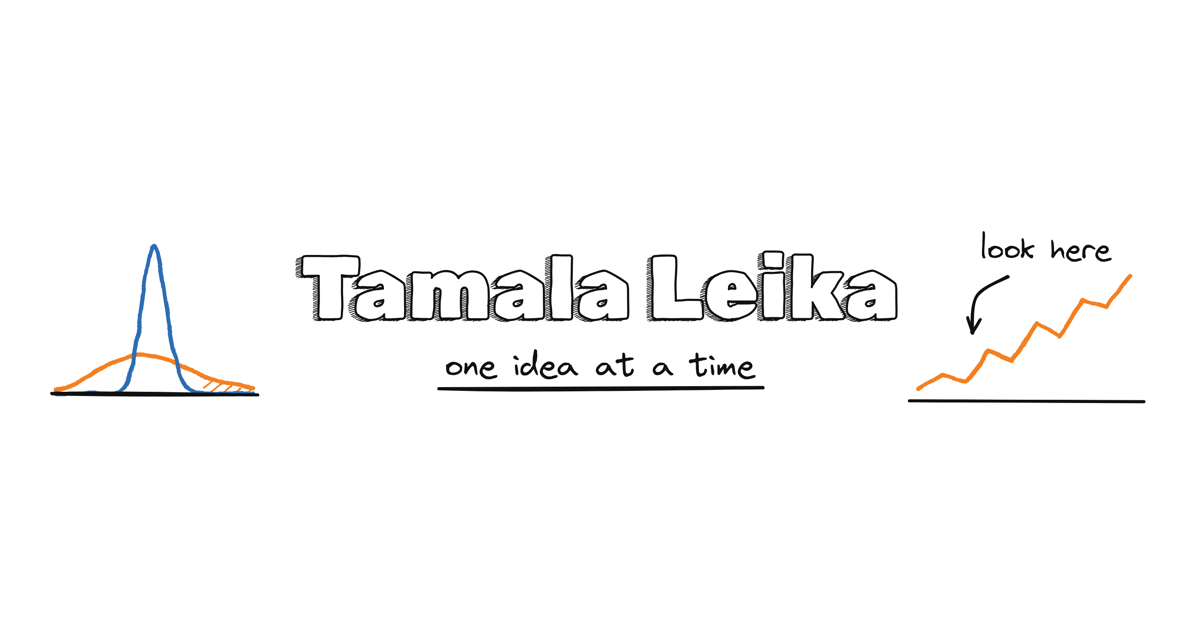
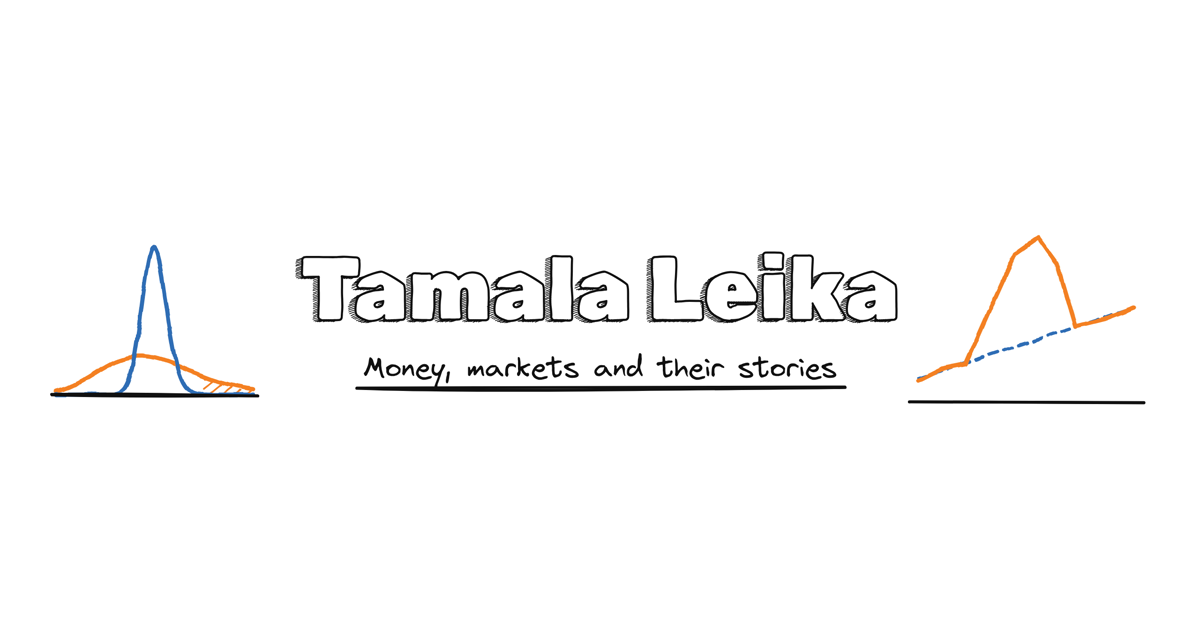
Update site (tamalaleika f67066d)

Changed region(s): [[0.74, 0.3631, 0.9558, 0.6656], [0.3083, 0.5446, 0.7092, 0.6354], [0.0308, 0.6051, 0.2158, 0.6354]]

diff --git a/build.py b/build.py
@@ -311,29 +311,34 @@ def avatar_svg(seed: int = 17) -> str:
 
 
 def hero_svg() -> str:
-    """The home page drawing: a bubble, its crash and the question the channel answers."""
+    """The home page drawing: a stock price bubble shooting far above what the business is worth, then crashing back down to it."""
     ax = wobble([(70, 40), (70, 400), (640, 400)], 3, amp=1.2)
     ticks = "".join(f'<path class="ink thin" d="{wobble([(x, 400), (x, 412)], 10 + i, amp=0.4, step=4)}"/>'
                     for i, x in enumerate(range(150, 640, 90)))
     ticks += "".join(f'<path class="ink thin" d="{wobble([(58, y), (70, y)], 20 + i, amp=0.4, step=4)}"/>'
                      for i, y in enumerate(range(100, 400, 75)))
     random.seed(7)
-    wild, y = [], 330.0
-    shape = [(i, 330 - 230 * math.exp(-((i - 330) / 120) ** 2) - 40 * i / 600) for i in range(80, 420, 12)]
-    for x, base in shape:
-        wild.append((x, base + random.uniform(-9, 9)))
-    for x in range(420, 630, 12):
-        y = 330 - 60 * math.exp(-((x - 330) / 120) ** 2) + 40 - 30 * (x - 420) / 210 + random.uniform(-6, 6)
-        wild.append((x, y))
-    calm = [(x, 300 - 0.22 * (x - 80) + 5 * math.sin(x / 37)) for x in range(80, 631, 30)]
+    # Blue dashed line: what it's actually worth (grows slowly and steadily)
+    calm_fn = lambda x: 340 - 0.14 * (x - 80)
+    calm = [(x, calm_fn(x) + 3 * math.sin(x / 40)) for x in range(80, 631, 30)]
+    # Orange line: price tracks value at first, inflated into a huge bubble, then crashes back down to what it's worth
+    wild = []
+    for x in range(80, 432, 12):
+        bubble = 225 * math.exp(-((x - 335) / 95) ** 2) if x > 140 else 0
+        wild.append((x, calm_fn(x) - bubble + random.uniform(-7, 7)))
+    for x in range(432, 630, 12):
+        # Crash rapidly after x=432 back down to the blue value line
+        after = max(0.0, 1.0 - (x - 432) / 36.0)
+        bubble = 115 * after
+        wild.append((x, calm_fn(x) - bubble + random.uniform(-5, 5)))
     peak = min(wild, key=lambda p: p[1])
     ell_c = (peak[0] + 4, peak[1] + 6)
     ell = wobble([(ell_c[0] + 62 * math.cos(a / 20 * 6.4 - 0.3), ell_c[1] + 34 * math.sin(a / 20 * 6.4 - 0.3))
                   for a in range(21)], 5, amp=2.0, step=8)
-    arrow = wobble([(470, 120), (430, 102), (ell_c[0] + 66, ell_c[1] - 10)], 6, amp=1.4)
-    head_x, head_y = ell_c[0] + 66, ell_c[1] - 10
+    arrow = wobble([(475, 118), (435, 100), (ell_c[0] + 66, ell_c[1] - 6)], 6, amp=1.4)
+    head_x, head_y = ell_c[0] + 66, ell_c[1] - 6
     head = wobble([(head_x + 14, head_y - 8), (head_x, head_y), (head_x + 15, head_y + 7)], 8, amp=0.6, step=4)
-    return f'''<svg class="hero-chart" viewBox="0 0 680 470" role="img" aria-label="Chart of a price shooting up and crashing, with the peak circled and the question: wait, why did it crash?">
+    return f'''<svg class="hero-chart" viewBox="0 0 680 470" role="img" aria-label="Chart of a stock price shooting far above what it is worth and then crashing back down">
   <path class="ink axis" pathLength="1" d="{ax}"/>
   {ticks}
   <text class="hand axis-label" x="16" y="60">price</text>
@@ -343,9 +348,9 @@ def hero_svg() -> str:
   <path class="mark circle" pathLength="1" d="{ell}"/>
   <path class="mark arrow" pathLength="1" d="{arrow}"/>
   <path class="mark arrow head" pathLength="1" d="{head}"/>
-  <text class="hand note" x="472" y="112">wait, why did</text>
-  <text class="hand note" x="472" y="142">it crash?</text>
-  <text class="hand note small blue-text" x="520" y="232">what it's worth</text>
+  <text class="hand note" x="480" y="110">everyone</text>
+  <text class="hand note" x="480" y="140">buys here</text>
+  <text class="hand note small blue-text" x="475" y="315">what it's actually worth</text>
 </svg>'''
 
 
@@ -475,7 +480,7 @@ def home(videos, now, show_all) -> str:
     <p class="kicker hand">short finance explainers</p>
     <h1 class="display">{NAME}</h1>
     <p class="hero-sub">{TAGLINE}</p>
-    <p class="hero-lead">Short videos on how financial markets work — from basic concepts like options, bonds and leverage to the stories behind big crashes, bubbles and bets. Every video comes with a written version right below it if you'd rather read than watch.</p>
+    <p class="hero-lead">Short videos about how financial markets work, from basic concepts like options, bonds and leverage to the stories behind big crashes, bubbles and bad bets.</p>
     <div class="actions">{cta}<a class="btn" href="{B}/videos/">All videos</a></div>
   </div>
   <div class="hero-art">{hero_svg()}</div>
@@ -487,7 +492,7 @@ def home(videos, now, show_all) -> str:
 <section class="wrap section about-strip">
   <div class="about-box">
     <h2 class="sketch">Who makes this?</h2>
-    <p>I'm not a finance guy — these are just the things I learned along the way, turned into short videos with the help of AI. The machine writes, speaks and draws them, and I spar with it and edit the drafts until they clear my bar.</p>
+    <p>I'm not a finance guy. These are just the things I learned along the way, turned into short videos with AI. The machine writes, speaks and draws them, and I spar with it and edit the drafts until they clear my bar.</p>
     <a class="btn" href="{B}/about/">About the channel</a>
   </div>
 </section>'''
@@ -547,26 +552,21 @@ def video_page(v, videos, now) -> str:
 def index_page(videos, now, show_all) -> str:
     vis = [v for v in videos if show_all or released(v, now)]
     groups = [
-        ("Concepts: the basics", "The building blocks, explained from scratch.",
-         [v for v in vis if v["kind"] != "story" and v["level"] in ("basic", "")]),
-        ("Concepts: one step further", "Going a bit deeper once the basics are clear.",
-         [v for v in vis if v["kind"] != "story" and v["level"] in ("advanced", "pro")]),
-        ("Stories", "Big bets, bubbles, frauds and collapses.",
-         [v for v in vis if v["kind"] == "story"]),
+        ("Basics", [v for v in vis if v["kind"] != "story" and v["level"] in ("basic", "")]),
+        ("Advanced", [v for v in vis if v["kind"] != "story" and v["level"] in ("advanced", "pro")]),
+        ("Stories", [v for v in vis if v["kind"] == "story"]),
     ]
     sections = ""
-    for i, (h, sub, vs) in enumerate(groups):
+    for h, vs in groups:
         if not vs:
             continue
         sections += f'''<section class="section">
-  <div class="section-head"><h2 class="sketch">{h}</h2><p class="hand note-inline">{sub}</p></div>
+  <div class="section-head"><h2 class="sketch">{h}</h2></div>
   {grid(list(reversed(vs)), now, show_all)}
 </section>'''
-    n = len([v for v in videos if released(v, now)])
     body = f'''<div class="wrap">
   <header class="page-head">
     <h1 class="display page-title">All videos</h1>
-    <p class="lede">{n} short{"s" if n != 1 else ""} so far, each with a written version to read.</p>
   </header>
   {sections}
 </div>'''

diff --git a/pages/about.md b/pages/about.md
@@ -2,23 +2,19 @@
 title: About
 summary: What Tamala Leika is, how it's made with AI, and how this site handles privacy.
 ---
-Hi, I'm Daniel.
+Hi, I'm Tamala.
 
-Let's get the obvious part out of the way first: yes, these videos are made with AI. Typically I don't like AI-generated videos either, because left to itself, AI just churns out generic slop that nobody wants to watch.
+Yes, these videos are made with AI. I don't usually like AI-generated videos either, because left to itself, AI just churns out generic slop that nobody wants to watch.
 
-Still, when I searched YouTube for a simple explanation of implied volatility, most of what I found was so bad that I figured an AI short — properly guided and edited — could actually do a better job. So I built a pipeline where AI drafts the script, speaks the narration and generates the whiteboard drawings in code, while I pick the topics, spar with the machine, and keep editing or rejecting drafts until the result clears my bar.
+Still, when I searched YouTube for a simple explanation of implied volatility, most of what I found was so bad that I figured an AI short, with enough guidance and editing, could actually do a better job. So AI drafts the script, speaks the narration and generates the whiteboard drawings in code, while I pick the topics, spar with the machine, and keep editing or throwing out drafts until the result clears my bar.
 
-I'm not a finance professional. These are just the concepts and market stories I've found fascinating and learned about along the way, explained as simply and clearly as I can get the machine to explain them. None of this is financial advice.
+I'm not a finance guy. These are just the concepts and market stories I learned about along the way, explained as simply as I can get the machine to explain them. None of this is financial advice.
 
-If you find it useful or entertaining, enjoy. And if it's not your cup of tea, that's completely fine too.
-
-## Why a website too?
-
-Sometimes you just want to read an explanation in two minutes without turning your sound on, or look up the numbers from a video without scrubbing through a timeline. Every short published on the channel gets its own page here with the video and a written version right next to it.
+If you like it, enjoy. If you don't, that's fine too.
 
 ## Privacy
 
-This site doesn't use cookies, which is why you won't see a cookie banner. Page views are counted with [GoatCounter](https://www.goatcounter.com), a lightweight analytics tool that doesn't track you across sites or store IP addresses. The embedded videos are hosted on YouTube, using their privacy-enhanced player, and nothing loads from YouTube until you actually click play.
+This site sets no cookies, so there is no cookie banner. Page views are counted with [GoatCounter](https://www.goatcounter.com), which doesn't use cookies or store IP addresses. The videos are hosted on YouTube and nothing loads from YouTube until you press play.
 
 ## Elsewhere
 
